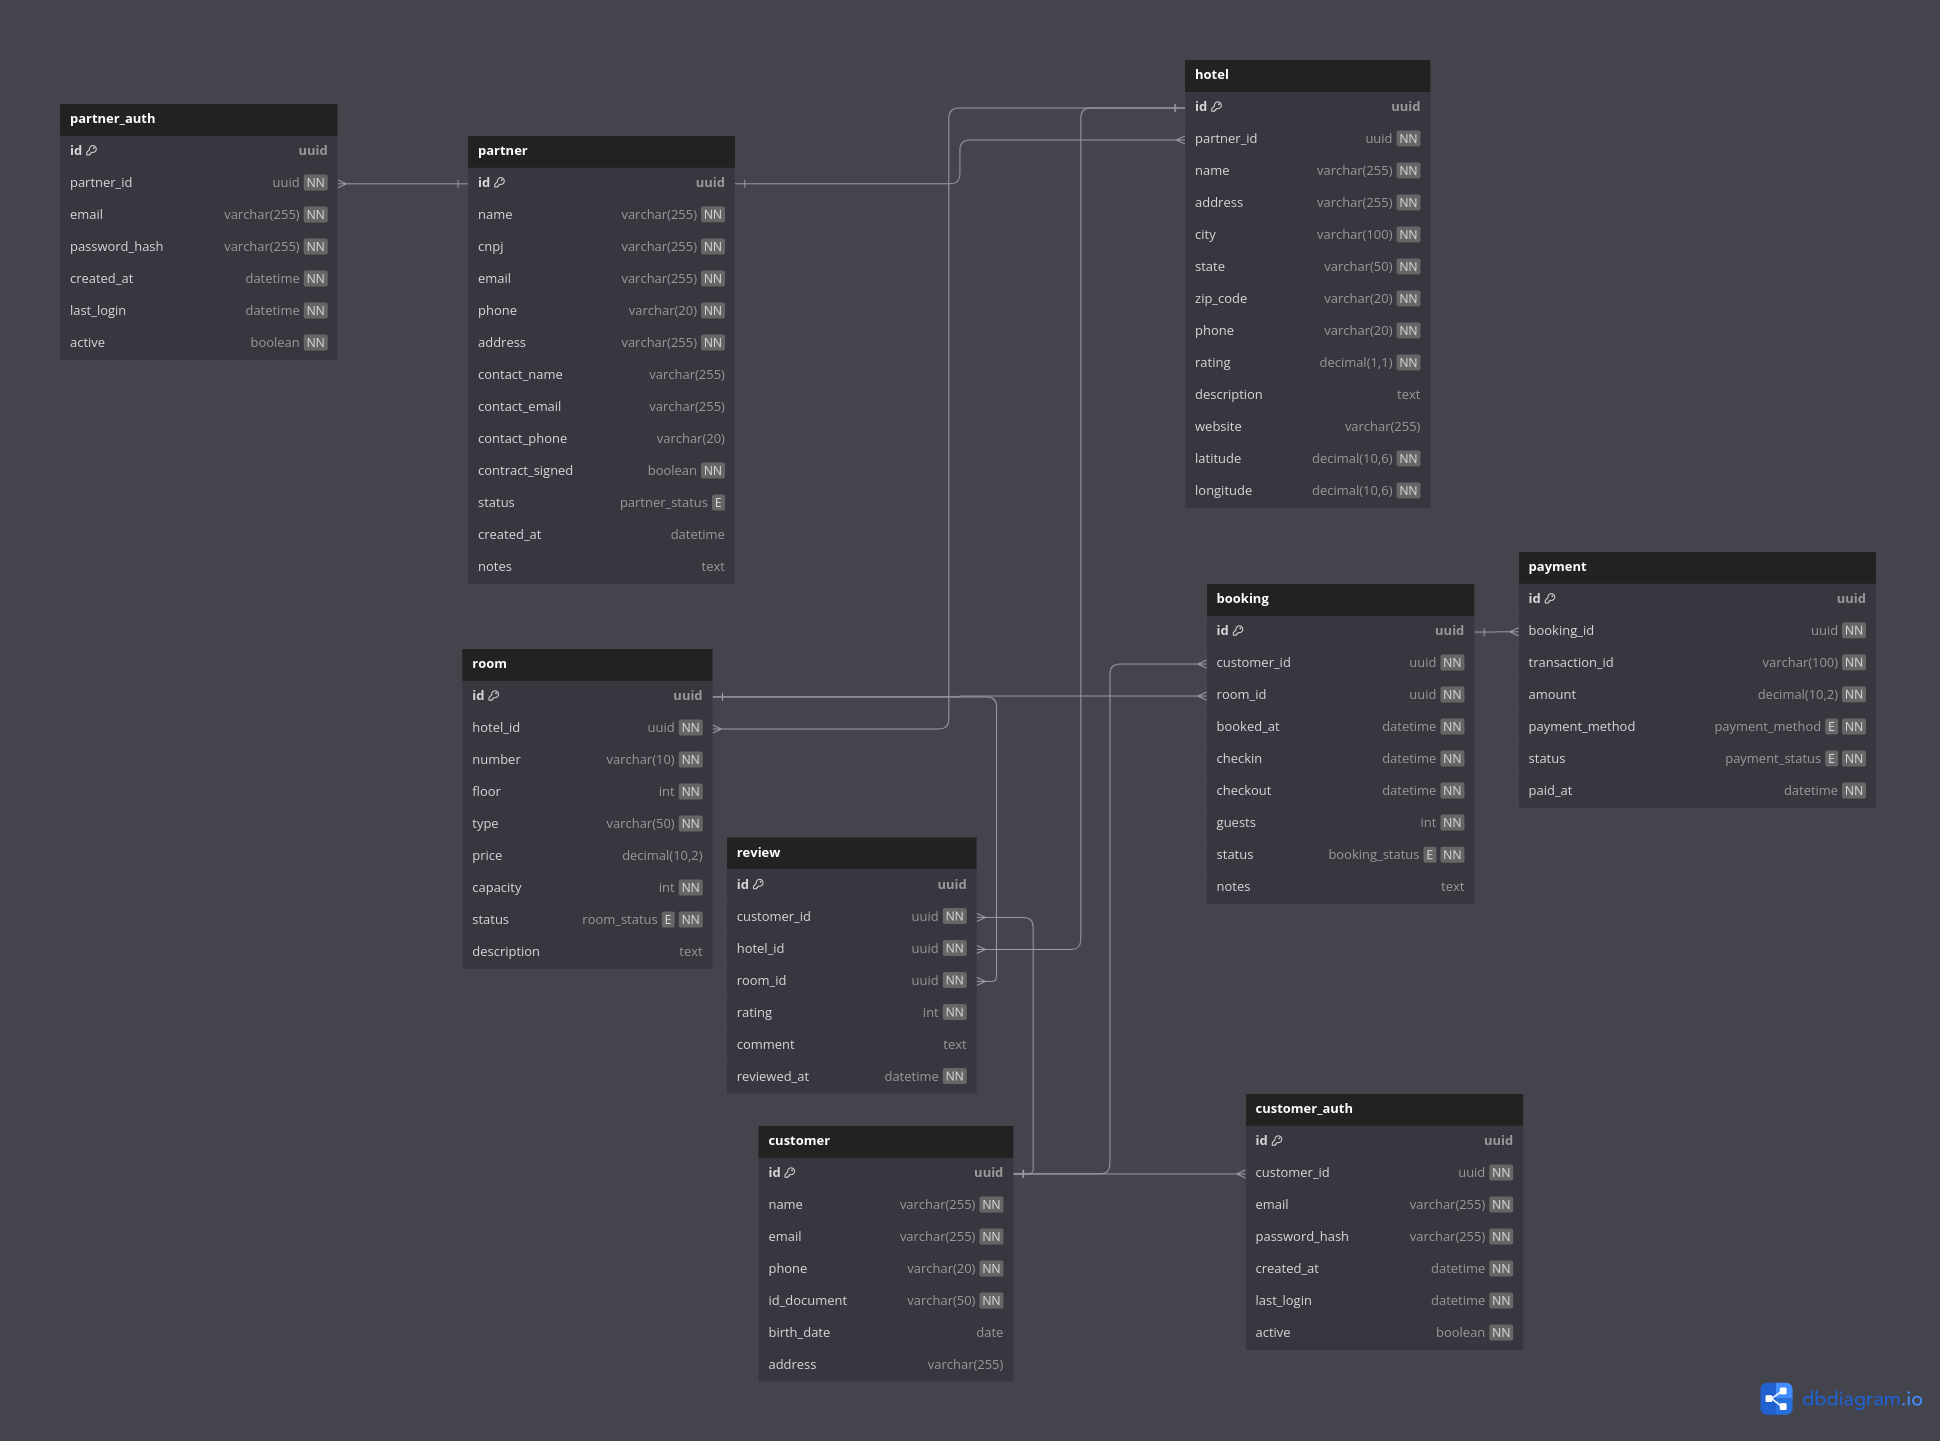
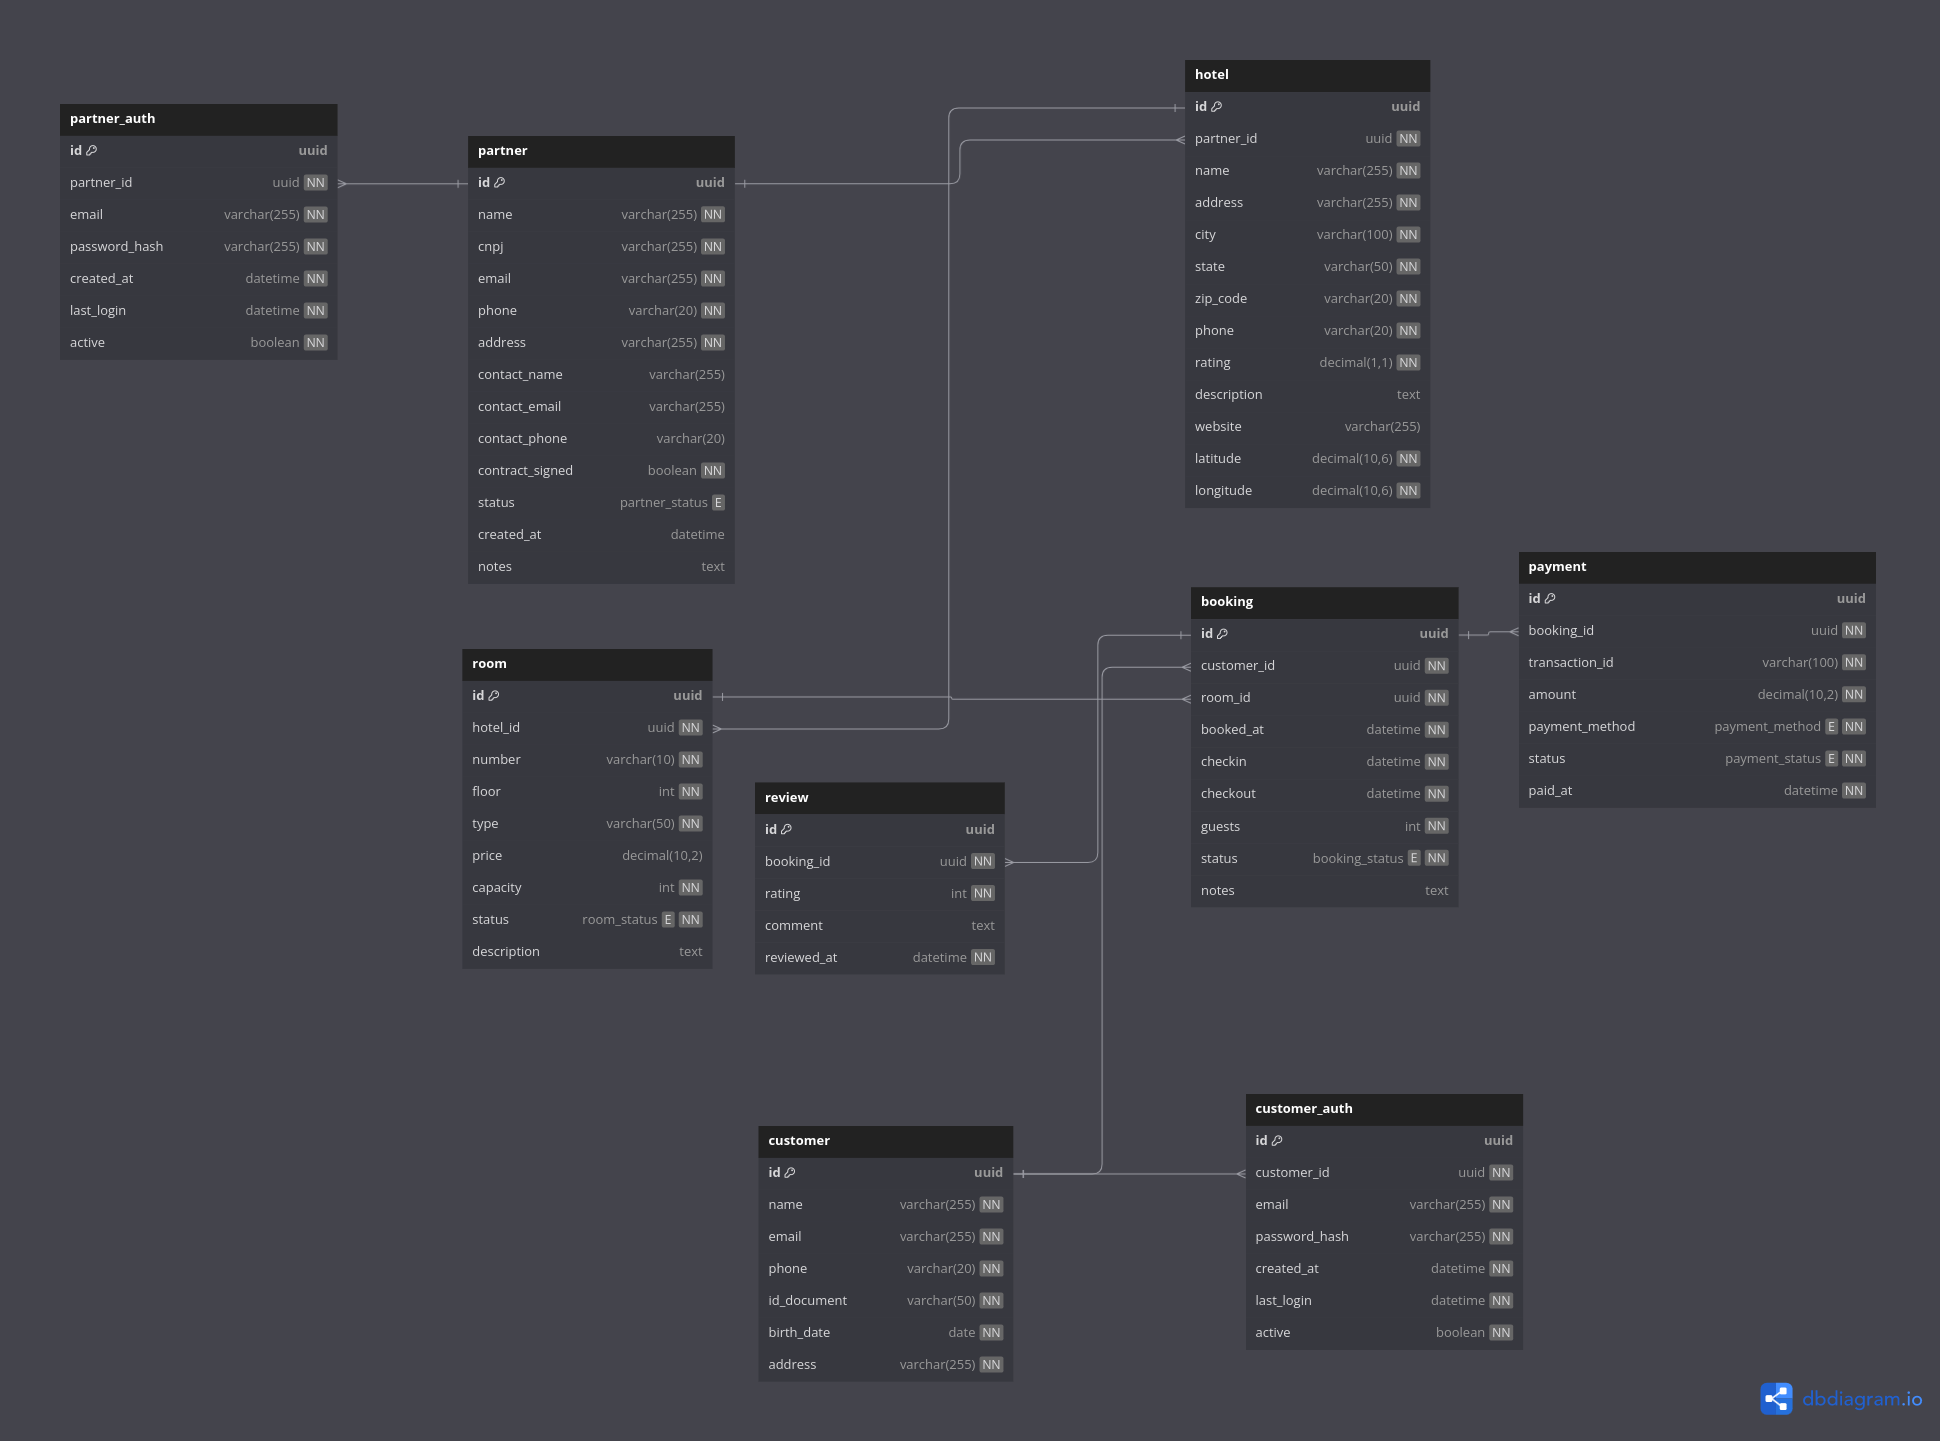
feat: update review table and implement review repository

diff --git a/src/test/kotlin/com/hotela/repository/impl/ReviewRepositoryImplTest.kt b/src/test/kotlin/com/hotela/repository/impl/ReviewRepositoryImplTest.kt
@@ -1,0 +1,126 @@
+package com.hotela.repository.impl
+
+import com.hotela.model.database.Review
+import com.hotela.stubs.database.BookingStubs
+import com.hotela.stubs.database.ReviewStubs
+import io.kotest.core.spec.style.ShouldSpec
+import io.kotest.matchers.shouldBe
+import io.mockk.clearAllMocks
+import io.mockk.every
+import io.mockk.mockk
+import io.mockk.verify
+import io.r2dbc.spi.Row
+import io.r2dbc.spi.RowMetadata
+import org.springframework.r2dbc.core.DatabaseClient
+import org.springframework.r2dbc.core.RowsFetchSpec
+import org.springframework.r2dbc.core.bind
+import reactor.core.publisher.Mono
+import java.time.LocalDateTime
+import java.util.UUID
+import java.util.function.BiFunction
+
+class ReviewRepositoryImplTest :
+    ShouldSpec({
+        val databaseClient = mockk<DatabaseClient>()
+        val reviewRepositoryImpl = ReviewRepositoryImpl(databaseClient)
+
+        val booking = BookingStubs.create()
+        val review = ReviewStubs.create(bookingId = booking.id)
+        val genericDatabaseSpec = mockk<DatabaseClient.GenericExecuteSpec>()
+        val mockRow = mockk<Row>()
+        val rowsFetchSpec = mockk<RowsFetchSpec<Review>>()
+
+        fun setupMockForDatabaseClient() {
+            every { databaseClient.sql(any<String>()) } returns genericDatabaseSpec
+            every { genericDatabaseSpec.bind(any<String>(), any()) } returns genericDatabaseSpec
+            every { genericDatabaseSpec.bindNull(any<String>(), any()) } returns genericDatabaseSpec
+        }
+
+        fun setupMockRowForReview() {
+            every {
+                genericDatabaseSpec.map(any<BiFunction<Row, RowMetadata, Review>>())
+            } answers {
+                val function = args[0] as BiFunction<Row, RowMetadata, Review>
+                every { rowsFetchSpec.first() } returns Mono.just(function.apply(mockRow, mockk()))
+                every { rowsFetchSpec.all().collectList() } returns Mono.just(listOf(function.apply(mockRow, mockk())))
+                rowsFetchSpec
+            }
+
+            every { mockRow.get("id", UUID::class.java) } returns review.id
+            every { mockRow.get("booking_id", UUID::class.java) } returns review.bookingId
+            every { mockRow.get("rating", Int::class.java) } returns review.rating
+            every { mockRow.get("comment", String::class.java) } returns review.comment
+            every { mockRow.get("reviewed_at", LocalDateTime::class.java) } returns review.reviewedAt
+            every { mockRow.get("updated_at", LocalDateTime::class.java) } returns review.updatedAt
+        }
+
+        beforeTest {
+            setupMockForDatabaseClient()
+            setupMockRowForReview()
+        }
+
+        afterTest { clearAllMocks() }
+
+        should("successfully create a review") {
+            reviewRepositoryImpl.create(review) shouldBe review
+
+            verify(exactly = 1) {
+                databaseClient.sql(any<String>())
+                genericDatabaseSpec.bind("id", review.id)
+                genericDatabaseSpec.bind("bookingId", review.bookingId)
+                genericDatabaseSpec.bind("rating", review.rating)
+                genericDatabaseSpec.bind("comment", review.comment)
+                genericDatabaseSpec.bind("reviewedAt", review.reviewedAt)
+                genericDatabaseSpec.bind("updatedAt", review.updatedAt)
+                genericDatabaseSpec.map(any<BiFunction<Row, RowMetadata, Review>>())
+                rowsFetchSpec.first()
+            }
+        }
+
+        should("successfully update a review") {
+            reviewRepositoryImpl.update(review) shouldBe review
+
+            verify(exactly = 1) {
+                databaseClient.sql(any<String>())
+                genericDatabaseSpec.bind("id", review.id)
+                genericDatabaseSpec.bind("rating", review.rating)
+                genericDatabaseSpec.bind("comment", review.comment)
+                genericDatabaseSpec.bind("updatedAt", review.updatedAt)
+                genericDatabaseSpec.map(any<BiFunction<Row, RowMetadata, Review>>())
+                rowsFetchSpec.first()
+            }
+        }
+
+        should("successfully find a review by ID") {
+            reviewRepositoryImpl.findById(review.id) shouldBe review
+
+            verify(exactly = 1) {
+                databaseClient.sql(any<String>())
+                genericDatabaseSpec.bind("id", review.id)
+                genericDatabaseSpec.map(any<BiFunction<Row, RowMetadata, Review>>())
+                rowsFetchSpec.first()
+            }
+        }
+
+        should("successfully find reviews by hotel ID") {
+            reviewRepositoryImpl.findByHotelId(review.bookingId) shouldBe listOf(review)
+
+            verify(exactly = 1) {
+                databaseClient.sql(any<String>())
+                genericDatabaseSpec.bind("hotelId", review.bookingId)
+                genericDatabaseSpec.map(any<BiFunction<Row, RowMetadata, Review>>())
+                rowsFetchSpec.all().collectList()
+            }
+        }
+
+        should("successfully find reviews by customer ID") {
+            reviewRepositoryImpl.findByCustomerId(review.bookingId) shouldBe listOf(review)
+
+            verify(exactly = 1) {
+                databaseClient.sql(any<String>())
+                genericDatabaseSpec.bind("customerId", review.bookingId)
+                genericDatabaseSpec.map(any<BiFunction<Row, RowMetadata, Review>>())
+                rowsFetchSpec.all().collectList()
+            }
+        }
+    })

diff --git a/src/main/kotlin/com/hotela/repository/impl/ReviewRepositoryImpl.kt b/src/main/kotlin/com/hotela/repository/impl/ReviewRepositoryImpl.kt
@@ -1,0 +1,111 @@
+package com.hotela.repository.impl
+
+import com.hotela.model.database.Review
+import com.hotela.repository.ReviewRepository
+import io.r2dbc.spi.Row
+import kotlinx.coroutines.reactor.awaitSingleOrNull
+import org.springframework.r2dbc.core.DatabaseClient
+import org.springframework.r2dbc.core.awaitSingleOrNull
+import org.springframework.r2dbc.core.bind
+import org.springframework.stereotype.Component
+import java.time.LocalDateTime
+import java.util.UUID
+
+@Component
+class ReviewRepositoryImpl(
+    private val databaseClient: DatabaseClient,
+) : ReviewRepository {
+    override suspend fun findById(id: UUID): Review? =
+        databaseClient
+            .sql(FIND_BY_ID)
+            .bind("id", id)
+            .map { row, _ ->
+                mapper(row)
+            }.awaitSingleOrNull()
+
+    override suspend fun findByHotelId(hotelId: UUID): List<Review> =
+        databaseClient
+            .sql(FIND_BY_HOTEL_ID)
+            .bind("hotelId", hotelId)
+            .map { row, _ ->
+                mapper(row)
+            }.all()
+            .collectList()
+            .awaitSingleOrNull() ?: emptyList()
+
+    override suspend fun findByCustomerId(customerId: UUID): List<Review> =
+        databaseClient
+            .sql(FIND_BY_CUSTOMER_ID)
+            .bind("customerId", customerId)
+            .map { row, _ ->
+                mapper(row)
+            }.all()
+            .collectList()
+            .awaitSingleOrNull() ?: emptyList()
+
+    override suspend fun create(review: Review): Review =
+        databaseClient
+            .sql(CREATE_REVIEW)
+            .bind("id", review.id)
+            .bind("bookingId", review.bookingId)
+            .bind("rating", review.rating)
+            .bind("comment", review.comment)
+            .bind("reviewedAt", review.reviewedAt)
+            .bind("updatedAt", review.updatedAt)
+            .map { row, _ ->
+                mapper(row)
+            }.awaitSingleOrNull()!!
+
+    override suspend fun update(review: Review): Review =
+        databaseClient
+            .sql(UPDATE_REVIEW)
+            .bind("id", review.id)
+            .bind("rating", review.rating)
+            .bind("comment", review.comment)
+            .bind("updatedAt", review.updatedAt)
+            .map { row, _ ->
+                mapper(row)
+            }.awaitSingleOrNull()!!
+
+    private fun mapper(row: Row): Review =
+        Review(
+            id = row.get("id", UUID::class.java)!!,
+            bookingId = row.get("booking_id", UUID::class.java)!!,
+            rating = row.get("rating", Int::class.java)!!,
+            comment = row.get("comment", String::class.java),
+            reviewedAt = row.get("reviewed_at", LocalDateTime::class.java)!!,
+            updatedAt = row.get("updated_at", LocalDateTime::class.java)!!,
+        )
+
+    companion object {
+        private const val FIND_BY_ID = """
+            SELECT * FROM review WHERE id = :id
+        """
+
+        private const val FIND_BY_HOTEL_ID = """
+            SELECT * FROM review r 
+            JOIN booking b ON r.bookingId = b.bookingId
+            JOIN hotel h ON b.hotelId = h.id
+            WHERE hotel_id = :hotelId
+        """
+
+        private const val FIND_BY_CUSTOMER_ID = """
+            SELECT * FROM review r
+            JOIN booking b ON r.bookingId = b.bookingId
+            JOIN customer c ON b.customerId = c.id
+            WHERE customer_id = :customerId
+        """
+
+        private const val CREATE_REVIEW = """
+            INSERT INTO review (id, customer_id, hotel_id, rating, comment, reviewed_at, updated_at)
+            VALUES (:id, :customerId, :hotelId, :rating, :comment, :reviewedAt, :updatedAt)
+            RETURNING *
+        """
+
+        private const val UPDATE_REVIEW = """
+            UPDATE review SET rating = :rating, comment = :comment, updated_at = :updatedAt
+            WHERE id = :id
+            RETURNING *
+        """
+    }
+}

diff --git a/src/test/kotlin/com/hotela/stubs/database/ReviewStubs.kt b/src/test/kotlin/com/hotela/stubs/database/ReviewStubs.kt
@@ -5,14 +5,20 @@ import java.time.LocalDateTime
 import java.util.UUID
 
 object ReviewStubs {
-    fun create(): Review =
+    fun create(
+        id: UUID = UUID.fromString("346a30a6-34ce-45ab-a077-8ae8274cda22"),
+        bookingId: UUID = UUID.fromString("46267831-9d13-4ee8-aca4-3048c51162c4"),
+        rating: Int = 5,
+        comment: String = "Great stay!",
+        reviewedAt: LocalDateTime = LocalDateTime.now(),
+        updatedAt: LocalDateTime = LocalDateTime.now()
+    ): Review =
         Review(
-            id = UUID.fromString("346a30a6-34ce-45ab-a077-8ae8274cda22"),
-            customerId = UUID.fromString("4a55de02-693e-4008-8baf-1b4b9b625f16"),
-            hotelId = UUID.fromString("d6382730-8f96-49ec-8b74-43c5489c8647"),
-            roomId = UUID.fromString("46267831-9d13-4ee8-aca4-3048c51162c4"),
-            rating = 5,
-            comment = "Great stay!",
-            reviewedAt = LocalDateTime.of(2021, 10, 1, 14, 0),
+            id = id,
+            bookingId = bookingId,
+            rating = rating,
+            comment = comment,
+            reviewedAt = reviewedAt,
+            updatedAt = updatedAt
         )
 }

diff --git a/src/main/kotlin/com/hotela/model/database/Review.kt b/src/main/kotlin/com/hotela/model/database/Review.kt
@@ -5,12 +5,11 @@ import java.util.UUID
 
 data class Review(
     val id: UUID,
-    val customerId: UUID,
-    val hotelId: UUID,
-    val roomId: UUID,
+    val bookingId: UUID,
     val rating: Int,
     val comment: String? = null,
     val reviewedAt: LocalDateTime = LocalDateTime.now(),
+    val updatedAt: LocalDateTime = LocalDateTime.now(),
 ) {
     companion object {
         const val MAX_COMMENT_LENGTH = 500

diff --git a/src/main/kotlin/com/hotela/repository/ReviewRepository.kt b/src/main/kotlin/com/hotela/repository/ReviewRepository.kt
@@ -1,0 +1,16 @@
+package com.hotela.repository
+
+import com.hotela.model.database.Review
+import java.util.UUID
+
+interface ReviewRepository {
+    suspend fun findById(id: UUID): Review?
+
+    suspend fun findByHotelId(hotelId: UUID): List<Review>
+
+    suspend fun findByCustomerId(customerId: UUID): List<Review>
+
+    suspend fun create(review: Review): Review
+
+    suspend fun update(review: Review): Review
+}

diff --git a/src/main/kotlin/com/hotela/model/database/Payment.kt b/src/main/kotlin/com/hotela/model/database/Payment.kt
@@ -12,7 +12,7 @@ data class Payment(
     val transactionId: String,
     val amount: BigDecimal,
     val paymentMethod: PaymentMethod,
-    val status: PaymentStatus,
+    val status: PaymentStatus = PaymentStatus.PENDING,
     val paidAt: LocalDateTime = LocalDateTime.now(),
 ) {
     init {

diff --git a/docs/api/review.md b/docs/api/review.md
@@ -73,7 +73,7 @@ Endpoints para gerenciamento de avaliações feitas por clientes sobre hotéis.
 
 ---
 
-### PUT `/review/{id}/update`
+### PUT `/review/update/{id}`
 
 **Descrição:** Atualiza uma avaliação existente (nota ou comentário).
 
@@ -106,35 +106,6 @@ Endpoints para gerenciamento de avaliações feitas por clientes sobre hotéis.
 {
   "code": "900",
   "message": "Invalid data provided"
-}
-```
-
-**Resposta de erro (`404 Not Found`):**
-
-```json
-{
-  "code": "600",
-  "message": "Review with id {id} not found"
-}
-```
-
----
-
-### DELETE `/review/{id}/delete`
-
-**Descrição:** Remove uma avaliação do sistema.
-
-**Parâmetro de caminho:**
-
-| Parâmetro | Tipo | Descrição             |
-|-----------|------|-----------------------|
-| `id`      | UUID | ID da avaliação alvo  |
-
-**Resposta de sucesso (`200 OK`):**
-
-```json
-{
-  "message": "Review deleted successfully"
 }
 ```
 
